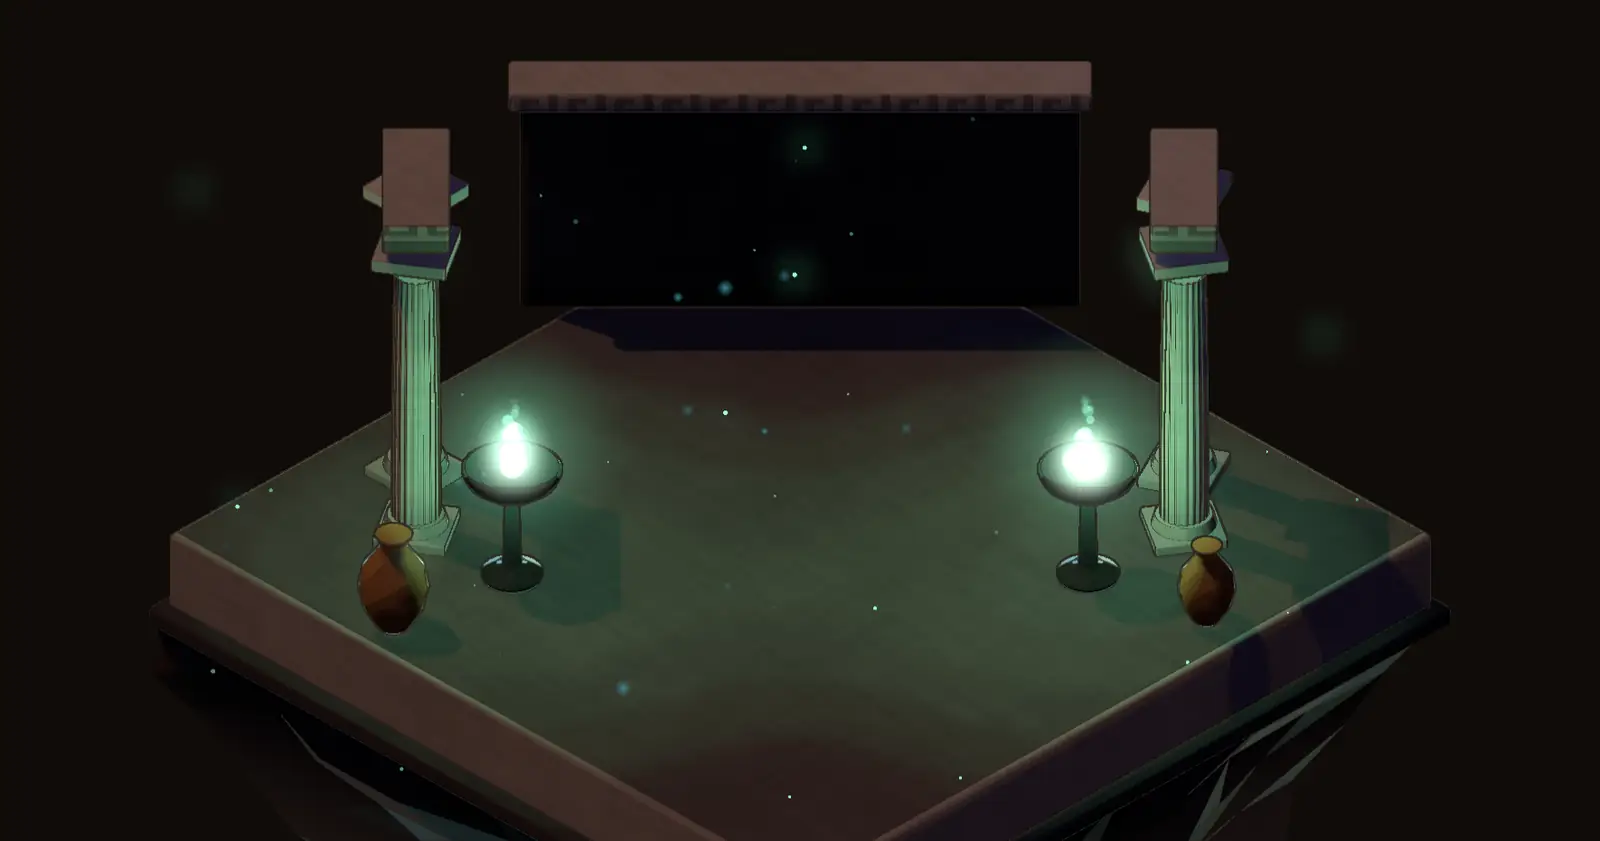
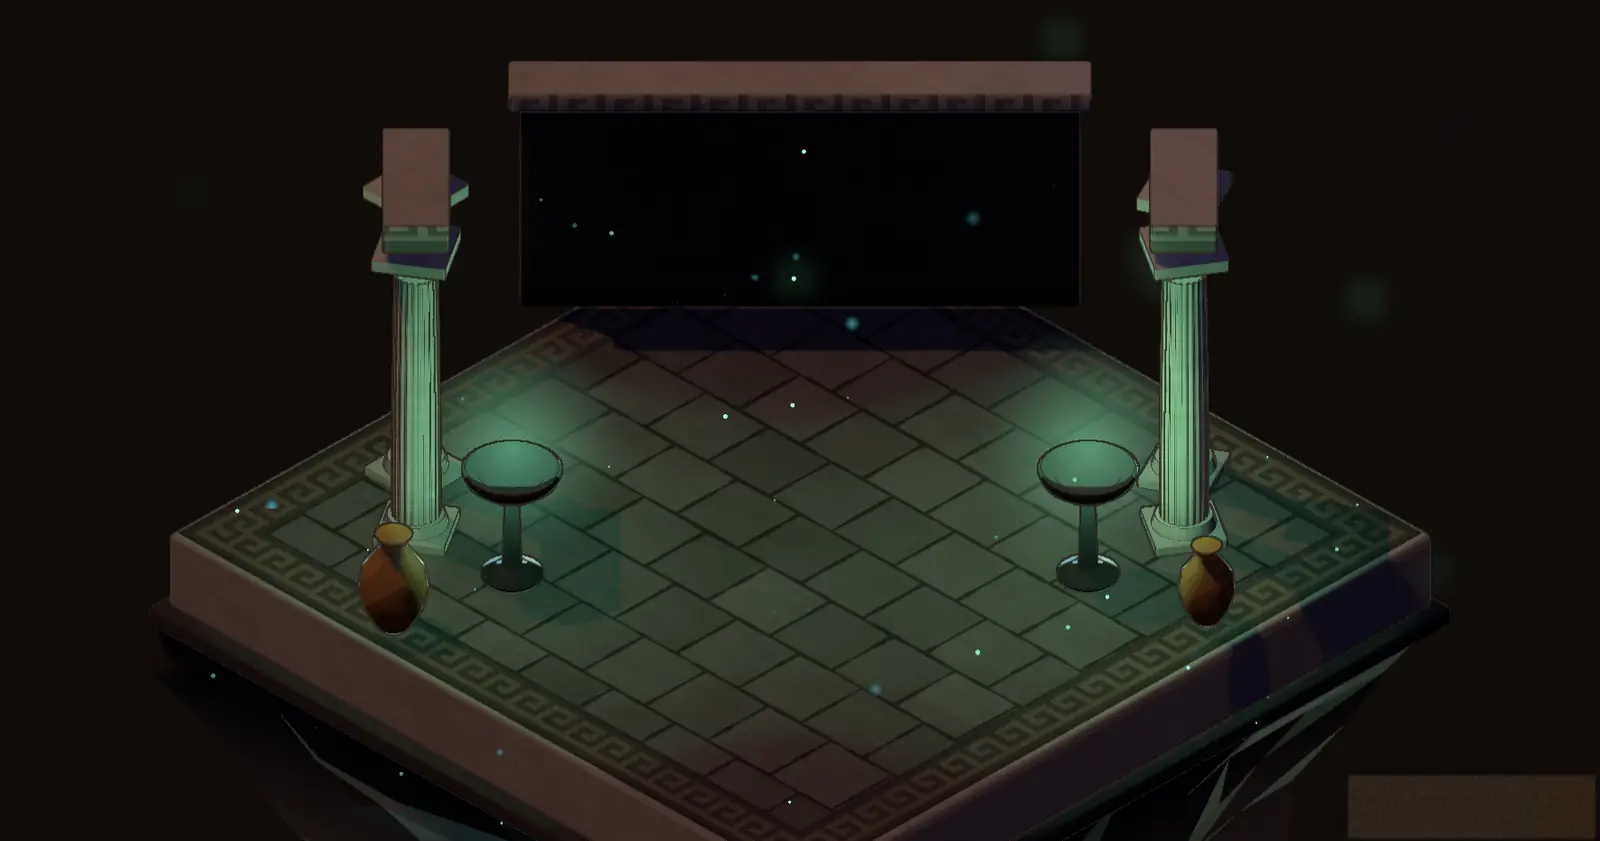
Moments WIP: bare posters with marks for the world's flame flipbook, carved floors and rubble, poster owned by Moment (eager and high on first moments), flame tiers

diff --git a/src/components/moments/Moment.tsx b/src/components/moments/Moment.tsx
@@ -1,14 +1,32 @@
 "use client";
 
-import { type ReactNode, useCallback } from "react";
+import { type CSSProperties, type ReactNode, useCallback, useEffect, useRef, useState } from "react";
 import { preload } from "react-dom";
 import { Stage } from "@/components/world/kit/Stage";
+import "@/components/world/kit/flames.css";
+import MARKS from "./marks.json";
 import type { SetName } from "./sets";
 import "./moments.css";
 
-/** A route's 3D moment: its set from ./sets on the world kit's Stage, the poster render first (and on phones), the
- *  live scene on capable screens near the viewport. Children are the page's own HTML laid over it. A `first` moment
- *  opens its page, so its poster is fetched with the document instead of waiting on the stage's lazy image. */
+type Mark = number[];
+
+/** Which flames a device that keeps the poster gets: the world's flipbook (./kit/flames.css), or one still frame of it
+ *  for Save-Data, reduced motion and phones under 4 cores or 4 GB. The live scene is the Stage's call (./kit/gate). */
+function flameTier(): "pf-play" | "pf-still" {
+  const n = navigator as Navigator & { deviceMemory?: number; connection?: { saveData?: boolean } };
+  if (n.connection?.saveData || (n.hardwareConcurrency || 4) < 4 || (n.deviceMemory ?? 4) < 4) return "pf-still";
+  return matchMedia("(prefers-reduced-motion: reduce)").matches ? "pf-still" : "pf-play";
+}
+
+/**
+ * A route's 3D moment: its set from ./sets on the world kit's Stage, in three tiers.
+ * - Every device paints the poster first (a render of the set, ./posters.mjs). It is the LCP, so a `first` moment
+ *   fetches it with the document at high priority and never lazily.
+ * - After the page has loaded and gone idle, a moment near the screen lays its flames over the poster where the scene
+ *   left them (./marks.json): the world's CSS flipbook, or one still frame on a weak phone, Save-Data or reduced motion.
+ * - A desktop with a hardware GPU (./kit/gate) mounts the live scene, which fades in over both once it has drawn.
+ * Children are the page's own HTML laid over it.
+ */
 export function Moment({ set, first, className = "", children }: { set: SetName; first?: boolean; className?: string; children?: ReactNode }) {
   const d = "/moments/" + set + "-d.webp", ph = "/moments/" + set + "-m.webp";
   if (first) {
@@ -16,8 +34,77 @@ export function Moment({ set, first, className = "", children }: { set: SetName;
     preload(d, { as: "image", media: "(min-width: 768px)", fetchPriority: "high" });
   }
   const load = useCallback(() => import("./mount").then((m) => (host: HTMLElement, ctx: Parameters<typeof m.mount>[1]) => m.mount(host, ctx, set)), [set]);
+  const frame = useRef<HTMLDivElement>(null);
+  const fl = useRef<HTMLSpanElement>(null);
+  const [tier, setTier] = useState<"pf-play" | "pf-still" | null>(null);
+  const marks = (MARKS as Record<string, { d?: Mark[]; m?: Mark[] }>)[set];
+
+  useEffect(() => {
+    const el = frame.current;
+    if (!el || !marks) return;
+    let io: IntersectionObserver | undefined;
+    let dead = false;
+    const go = () => {
+      if (dead) return;
+      io = new IntersectionObserver(
+        ([en]) => {
+          if (!en.isIntersecting) return;
+          io?.disconnect();
+          setTier(flameTier());
+        },
+        { rootMargin: "400px 0px" },
+      );
+      io.observe(el);
+    };
+    const idle = () => ("requestIdleCallback" in window ? requestIdleCallback(go, { timeout: 2000 }) : setTimeout(go, 200));
+    if (document.readyState === "complete") idle();
+    else addEventListener("load", idle, { once: true });
+    return () => {
+      dead = true;
+      removeEventListener("load", idle);
+      io?.disconnect();
+    };
+  }, [marks]);
+
+  // the flames stand on the poster as drawn, so their box is the picture's own box under object-fit: cover
+  useEffect(() => {
+    const box = frame.current, span = fl.current, img = box?.querySelector("img");
+    if (!tier || !box || !span || !img) return;
+    const fit = () => {
+      const W = box.clientWidth, H = box.clientHeight, iw = img.naturalWidth, ih = img.naturalHeight;
+      if (!iw || !ih) return;
+      const s = Math.max(W / iw, H / ih);
+      Object.assign(span.style, { inset: "auto", left: (W - iw * s) / 2 + "px", top: (H - ih * s) / 2 + "px", width: iw * s + "px", height: ih * s + "px" });
+    };
+    const ro = new ResizeObserver(fit);
+    ro.observe(box);
+    img.addEventListener("load", fit);
+    fit();
+    return () => {
+      ro.disconnect();
+      img.removeEventListener("load", fit);
+    };
+  }, [tier]);
+
   return (
-    <Stage load={load} poster={{ d, m: ph }} className={"mo mo-" + set + (className ? " " + className : "")}>
+    <Stage load={load} className={"mo mo-" + set + (className ? " " + className : "")}>
+      <div ref={frame} className="stage-poster mo-poster" aria-hidden="true">
+        <picture>
+          <source media="(max-width: 767px)" srcSet={ph} />
+          <img src={d} alt="" decoding="async" loading={first ? "eager" : "lazy"} fetchPriority={first ? "high" : "auto"} />
+        </picture>
+        {tier && marks ? (
+          <span ref={fl} className={"pf " + tier}>
+            {(["d", "m"] as const).flatMap((t) =>
+              (marks[t] ?? []).map(([x, y, h], i) => (
+                <i key={t + i} className={"pf-" + t} style={{ "--x": x, "--y": y, "--h": h, "--d": ((i * 0.37) % 1.6).toFixed(2) } as CSSProperties}>
+                  <b />
+                </i>
+              )),
+            )}
+          </span>
+        ) : null}
+      </div>
       {children}
     </Stage>
   );

diff --git a/src/components/moments/sets.ts b/src/components/moments/sets.ts
@@ -1,13 +1,13 @@
 import { ACCENT } from "@/lib/accent";
 import * as THREE from "three";
-import { BRAZIER, AMPHORA, Batch, COS, M, Q, RV, box, column, lathe, prep, rock, type Bag, type Fire, type Palette } from "@/components/world/kit";
+import { BRAZIER, AMPHORA, Batch, COS, M, Q, RV, box, column, lathe, prep, rock, stone, type Bag, type Fire, type Kind, type Palette } from "@/components/world/kit";
 
 // The sets each route stands on: one floating platform of the world apiece, built from the kit's pieces and lit by
 // its own fires. Every set faces the iso camera (screen right runs along RV, the near corner is +x +z), returns the
 // shot its stage frames, and may animate. The page's HTML (links, the picture itself) sits over the stage, so a set
 // leaves room for it rather than drawing it.
 
-export type SetCtx = { B: Batch; m: Palette; mk: (color: string, kind: { k: "stone"; rim?: number } | { k: "rock" }, extra?: THREE.MeshToonMaterialParameters) => THREE.MeshToonMaterial; scene: THREE.Scene; b: Bag; time: { value: number }; family: string };
+export type SetCtx = { B: Batch; m: Palette; mk: (color: string, kind: Kind, extra?: THREE.MeshToonMaterialParameters) => THREE.MeshToonMaterial; scene: THREE.Scene; b: Bag; time: { value: number }; family: string };
 export type Set = { fires: Fire[]; shot: { t: THREE.Vector3; h: number; w: number }; update?: (dt: number, t: number) => void };
 export type SetName = "break3d" | "niche-ads" | "niche-web" | "niche-game" | "niche-view" | "gate" | "shaft" | "deadend" | "reading";
 
@@ -18,8 +18,9 @@ const along = (p: THREE.Vector3, d: number) => p.clone().addScaledVector(RV, d);
 function kit(c: SetCtx) {
   const { B, m } = c;
   const fires: Fire[] = [];
+  /** The world's platform: bevelled slab, cornice under its lip, the carved floor (flagstones inside a running-key border) on top, rock below. */
   const platform = (half: number, depth = 9) => {
-    const floor = c.mk("#47413d", { k: "stone" });
+    const floor = c.mk("#4b4541", { k: "floor", rect: [-half, -half, half, half], border: half > 8 ? 1.6 : 1.2, tile: half > 8 ? 2.2 : 1.8 });
     B.add(m.stone, box(half * 2 + 0.4, 2.2, half * 2 + 0.4, 0.18), M(0, -2.2, 0), false);
     B.add(m.dark, box(half * 2 + 1.1, 0.55, half * 2 + 1.1, 0.16), M(0, -2.75, 0), false);
     B.add(floor, new THREE.PlaneGeometry(half * 2, half * 2).rotateX(-Math.PI / 2), M(0, 0.012, 0), false);
@@ -86,7 +87,14 @@ function kit(c: SetCtx) {
     const mat = c.mk(color, { k: "stone", rim: 1.6 }, { emissive: new THREE.Color(color), emissiveIntensity: 0.9 });
     B.add(mat, prep(new THREE.OctahedronGeometry(1, 0).scale(0.55, 1.4, 0.55).translate(0, 1.1, 0), false), M(p.x, p.y, p.z, ry, s, tilt, tilt * 0.6));
   };
-  return { fires, platform, brazier, lamp, col, beam, mesh, words, glow, crystal };
+  /** Fallen stones around a point, as the home world scatters them. */
+  const rubble = (x: number, z: number, n: number, spread: number, seed = 1) => {
+    for (let i = 0; i < n; i++) {
+      const a = seed * 2.4 + i * 2.1, r = spread * (0.3 + ((i * 0.37 + seed * 0.13) % 0.7));
+      B.add(m.stone, stone(seed * 7 + i), M(x + Math.cos(a) * r, 0, z + Math.sin(a) * r, a, [0.35 + (i % 3) * 0.18, 0.3 + (i % 2) * 0.2, 0.35 + ((i + 1) % 3) * 0.15]));
+    }
+  };
+  return { fires, platform, brazier, lamp, col, beam, mesh, words, glow, crystal, rubble };
 }
 
 /** /work, at the 3D break: Blade Ball's ball on a plinth and its pink blade driven into the floor beside it. */
@@ -117,6 +125,7 @@ function break3d(c: SetCtx): Set {
   c.scene.add(sword);
   B.add(m.rock, rock(2.4, 2, 1, 7, true), M(-3.2, 0.5, 2.6, 0.4, [1, 0.6, 1]));
   B.add(m.pale, column(1.6, 0.7, 1, 4), M(-4.2, 0, -2.6));
+  k.rubble(-3, -1.4, 4, 1.3, 2);
   B.add(m.stone, box(1.4, 0.7, 1.4, 0.12), M(3.6, 0, -3.4, 0.5));
   k.brazier(V(-4.4, 0, 1.6));
   k.brazier(V(2.8, 0, -4.4));
@@ -176,6 +185,7 @@ function gate(c: SetCtx): Set {
   k.brazier(V(3.4, 0, 0.8));
   k.brazier(V(0.8, 0, 3.4));
   B.add(m.pale, column(2.2, 0.6, 1, 6), M(-5, 0, 2.4));
+  k.rubble(-4, 3.6, 4, 1.2, 4);
   return { fires: k.fires, shot: { t: V(-1, 4, -1), h: 17, w: 19 }, update: (_, t) => (g.uniforms.uA.value = 1 + 0.12 * Math.sin(t * 1.7)) };
 }
 
@@ -224,6 +234,7 @@ function deadend(c: SetCtx): Set {
   B.add(m.pale, prep(new THREE.CylinderGeometry(0.62, 0.62, 2, 40).rotateZ(Math.PI / 2)), M(-1.4, 0.62, 5, 2.1));
   for (const [x, z, s, r] of [[3.6, 0.6, 1, 0.4], [4.4, 1.8, 0.7, 1.2], [-3.4, 3, 0.8, 0.9], [0.4, -1.4, 0.9, 2.2]]) B.add(m.stone, box(1.3 * s, 0.9 * s, 1.1 * s, 0.1), M(x, 0, z, r));
   B.add(m.rock, rock(3, 3, 1.2, 8, true), M(-5.4, 1.2, -0.6, 0.5, [1, 0.8, 1]));
+  k.rubble(-2.2, -1.6, 5, 1.6, 3);
   const post = V(4.2, 0, 4.2);
   B.add(m.wood, box(0.34, 6, 0.34, 0.06), M(post.x, 0, post.z));
   [[5.1, 0.25, "#efe4d0"], [4.1, -0.35, "#efe4d0"], [3.1, 0.15, ACCENT.accent]].forEach(([y, a, col]) => {
@@ -248,6 +259,7 @@ function reading(c: SetCtx): Set {
   B.add(m.bronze, lathe(AMPHORA, 24), M(-2.8, 0, 2, 0, 1.2));
   k.brazier(V(-2.4, 0, -2.8));
   B.add(m.pale, column(3.4, 0.55, 1, 5), M(2.6, 0, -2.6));
+  k.rubble(3.4, -1.5, 3, 0.9, 5);
   return { fires: k.fires, shot: { t: V(0, 2.4, 0), h: 12, w: 15 } };
 }
 

diff --git a/src/components/moments/mount.ts b/src/components/moments/mount.ts
@@ -1,11 +1,13 @@
 import { ACCENT } from "@/lib/accent";
 import * as THREE from "three";
-import { Batch, INK, NL, RV, UP, aim, bag, drop, fx, isoCamera, lightFires, painter, post, shared, view } from "@/components/world/kit";
+import { Batch, INK, NL, RV, SOUL, UP, aim, bag, drop, fx, isoCamera, lightFires, marks, painter, post, shared, view } from "@/components/world/kit";
 import type { Mount } from "@/components/world/kit/Stage";
 import { SETS, type SetName } from "./sets";
 
 // One route moment on the world kit: a set from ./sets on its own floating platform, lit by its fires, on flat ink,
-// with the kit's outline and bloom. The camera holds the set's shot and sways a little with the pointer.
+// with the kit's outline and bloom. The camera holds the set's shot and sways a little with the pointer. With ?bare
+// (posters.mjs) the braziers' flames are left out of the frame and their places written to data-marks, so the poster
+// carries them as the world's CSS flipbook (./Moment) the way the home posters do.
 
 export function mount(host: HTMLElement, ctx: Parameters<Mount>[1], name: SetName) {
   const S = shared();
@@ -32,11 +34,15 @@ export function mount(host: HTMLElement, ctx: Parameters<Mount>[1], name: SetNam
 
   const F = fx(scene, S, b);
   const n = (k: number) => Math.round(k * (ctx.small ? 0.6 : 1));
-  F.flames(set.fires.filter((f) => !f.soul && !f.lamp), false, n(22));
-  F.flames(set.fires.filter((f) => f.soul && !f.lamp), true, n(22));
-  F.halos(set.fires.filter((f) => !f.soul && !f.lamp), ACCENT.glow);
+  const warm = set.fires.filter((f) => !f.soul && !f.lamp), cold = set.fires.filter((f) => f.soul && !f.lamp);
+  if (!ctx.bare) {
+    F.flames(warm, false, n(22));
+    F.flames(cold, true, n(22));
+  }
+  F.halos(warm, ACCENT.glow);
   F.drift(n(110), [set.shot.w, 16, set.shot.w], 0.11, 1.1, ACCENT.glow, 1.4, 0);
-  F.drift(n(36), [set.shot.w, 12, set.shot.w], 0.4, 0.35, "#63e6ff", 0.42, 1);
+  F.drift(n(36), [set.shot.w, 12, set.shot.w], 0.4, 0.35, "#" + SOUL.getHexString(THREE.SRGBColorSpace), 0.42, 1);
+  F.drift(n(60), [set.shot.w, 12, set.shot.w], 0.06, 0.08, "#b49a80", 0.35, 1);
 
   const dpr = Math.min(window.devicePixelRatio || 1, ctx.still ? 2 : ctx.small ? 1.25 : 1.75);
   const v = view(host, frame, { dpr });
@@ -71,6 +77,7 @@ export function mount(host: HTMLElement, ctx: Parameters<Mount>[1], name: SetNam
     P.render(scene, camera, vh);
     if (!shown) {
       shown = true;
+      if (ctx.bare) host.dataset.marks = JSON.stringify(marks(camera, [...warm, ...cold].map((f) => ({ p: f.p, h: f.big ? 2.5 : 2.1 }))));
       ctx.ready();
     }
   }

diff --git a/src/components/moments/moments.css b/src/components/moments/moments.css
@@ -1,6 +1,16 @@
-/* Route moments (./Moment on the world kit's Stage): flat world ink behind every set, the page's own HTML over it. */
-.mo { background: #100b09; }
-.mo > :not(.stage-poster):not(.stage-gl) { position: relative; z-index: 1; }
+/* Route moments (./Moment on the world kit's Stage): flat world ink behind every set; the poster with its flames, then
+   the live canvas once it fades in, then the page's own HTML over both. */
+.mo { background: #100b09; isolation: isolate; }
+.mo > .mo-poster { z-index: 0; }
+.mo > .stage-gl { z-index: 1; }
+.mo > :not(.stage-poster):not(.stage-gl) { position: relative; z-index: 2; }
+.mo-poster picture { display: block; width: 100%; height: 100%; }
+/* the poster's flames stay until the live scene has drawn (the kit hides them as soon as a stage decides to go live) */
+.mo.stage[data-mode="live"]:not([data-live]) .pf { display: block; }
+.mo-poster .pf { animation: mo-in 600ms ease-out both; }
+.mo-poster .pf-still > i > b { width: 100%; height: 100%; background-image: url("/moments/flame-still.webp"); animation: none; }
+@keyframes mo-in { from { opacity: 0; } }
+@media (prefers-reduced-motion: reduce) { .mo-poster .pf { animation: none; } }
 
 .mo-brk { width: 100%; aspect-ratio: 16 / 10; }
 

diff --git a/src/components/moments/viewer.tsx b/src/components/moments/viewer.tsx
@@ -5,7 +5,7 @@ import { Moment } from "./Moment";
 
 /** The viewer's stage: the piece hangs in a quiet niche, columns and two low fires either side of it. */
 export const ViewerMoment = ({ children }: { children: ReactNode }) => (
-  <Moment set="niche-view" className="v-stage mo-view">
+  <Moment set="niche-view" first className="v-stage mo-view">
     {children}
   </Moment>
 );
